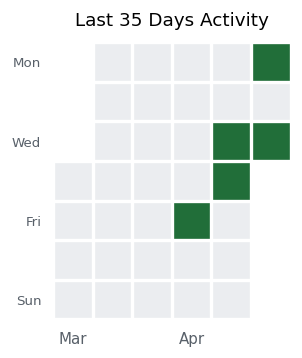
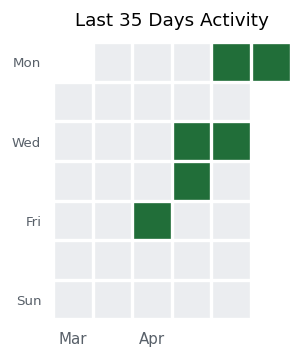
主導で制御

diff --git a/README.md b/README.md
@@ -1,7 +1,7 @@
-# 🏃 平均週 2.7 回でつーがく中！
+# 🏃 平均週 2.3 回でつーがく中！
 <p align="center">
   <img src="./monthly_report.png" alt="Attendance Calendar">
 </p>
 
 ___
-*最終更新: 2026-04-15*
+*最終更新: 2026-04-20*
